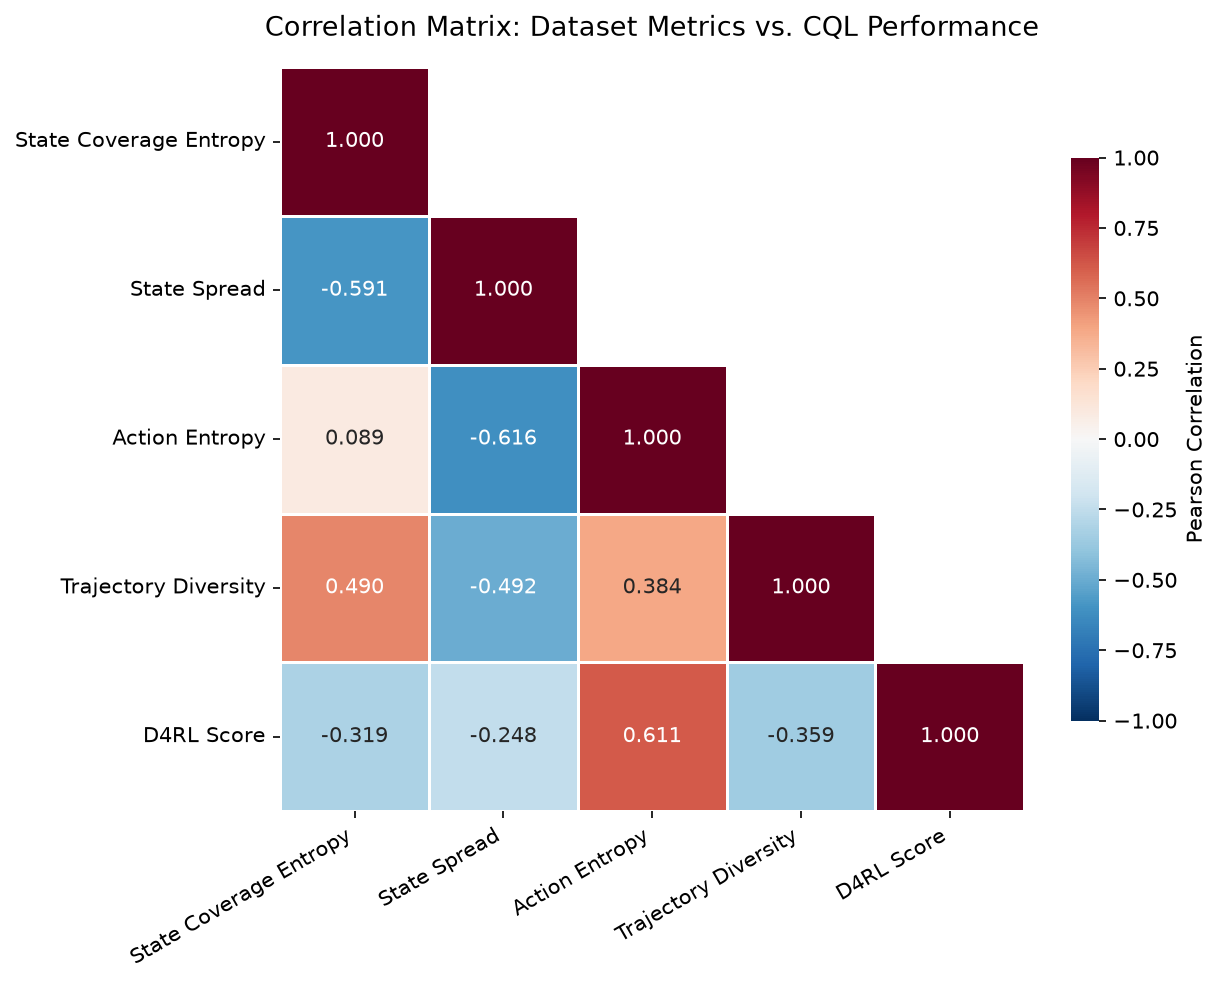
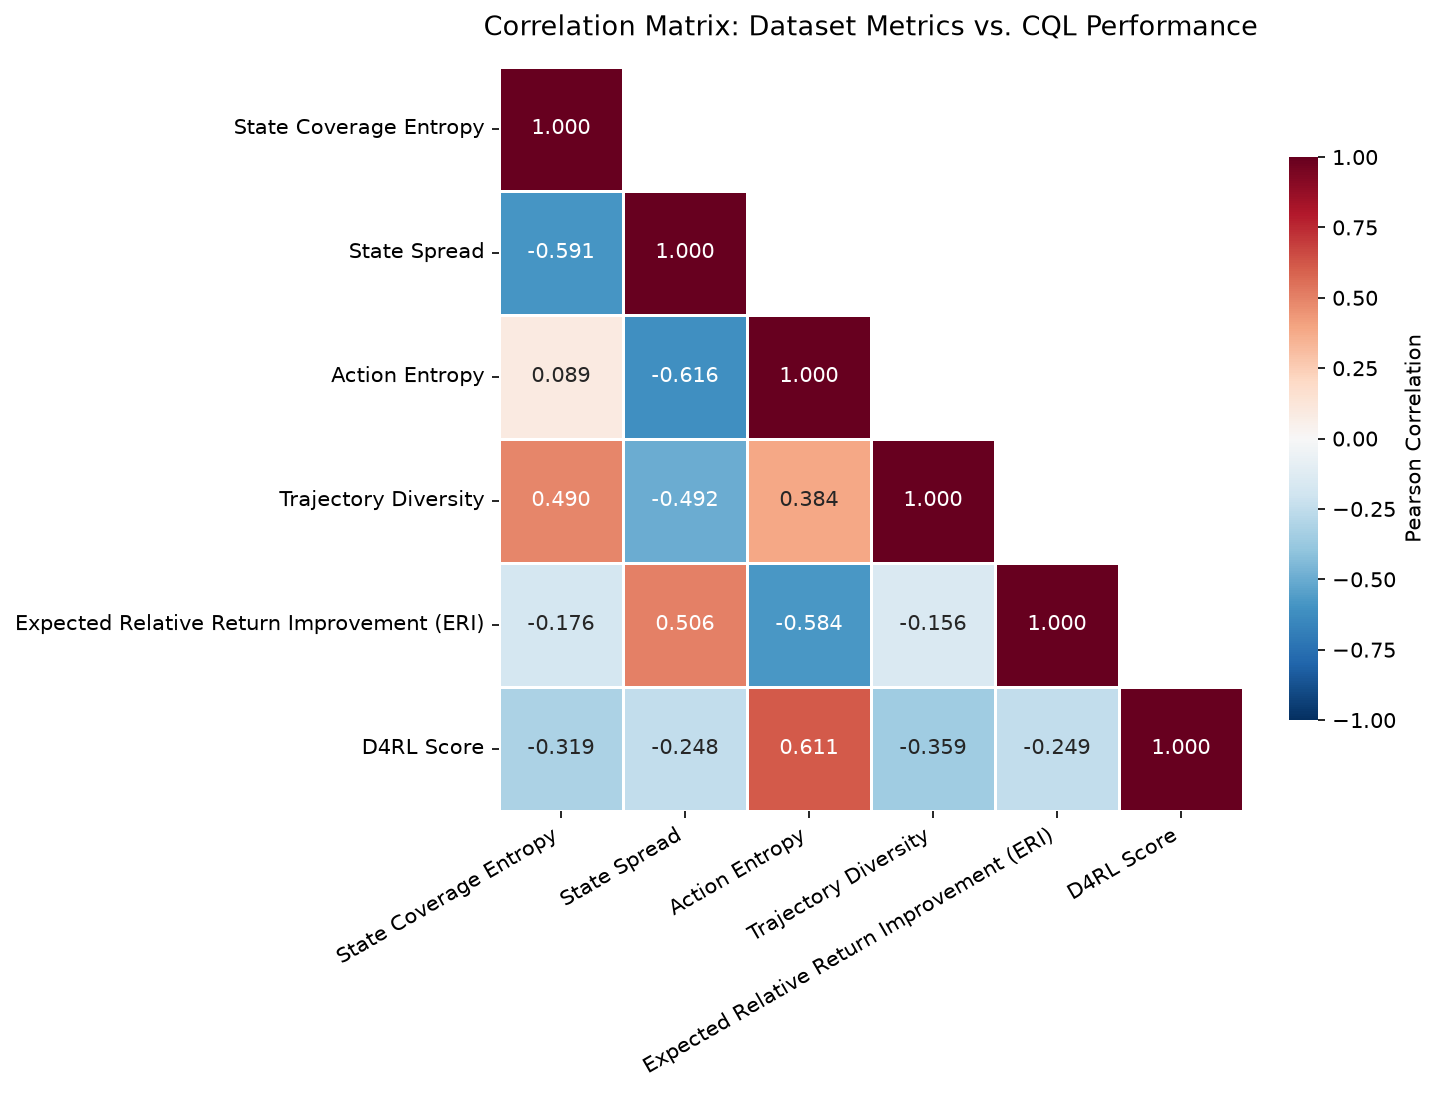
add EAS and ERI to visualization

diff --git a/src/visualization/visualize_results.py b/src/visualization/visualize_results.py
@@ -110,6 +110,8 @@ META_FEATURES = [
     "Action_Entropy",
     "Trajectory_Diversity",
     "Reward_Sparsity",
+    "EAS",
+    "ERI",
 ]
 
 META_FEATURE_LABELS = {
@@ -118,23 +120,24 @@ META_FEATURE_LABELS = {
     "Action_Entropy": "Action Entropy",
     "Trajectory_Diversity": "Trajectory Diversity",
     "Reward_Sparsity": "Reward Sparsity",
+    "EAS": "Mean Expected Action Stochasticity (EAS)",
+    "ERI": "Expected Relative Return Improvement (ERI)",
 }
 
-# Radar-chart metrics (subset that makes sense on a comparable scale)
-# Exclude Reward_Sparsity because it is constant (0.0) for all MuJoCo datasets.
+# Radar-chart metrics (subset that makes sense on a comparable scale).
+# Exclude Reward_Sparsity because it is constant (0.0) for all MuJoCo
+# datasets, and ERI because its bounded [-1, 0] range would be dwarfed on the
+# shared, non-normalized axis that plot_dataset_source_comparison draws
+# RADAR_METRICS on (the two radar-chart functions themselves are unaffected
+# by scale since they min-max normalize each metric independently).
 RADAR_METRICS = [
     "State_Coverage_Entropy",
     "State_Spread",
     "Action_Entropy",
     "Trajectory_Diversity",
+    "EAS",
 ]
 
-RADAR_LABELS = [
-    "State Coverage\nEntropy",
-    "State Spread",
-    "Action Entropy",
-    "Trajectory\nDiversity",
-]
 
 # Absolute-scale dataset-size/return features, kept in a separate bar panel
 # from RADAR_METRICS in the dataset-source comparison plot: their magnitudes
@@ -147,6 +150,14 @@ META_COUNT_FEATURE_LABELS = {
     "Episodes": "Episodes",
     "Avg_Episode_Length": "Avg. Episode Length",
 }
+
+# Bounded-ratio return-quality features, kept in their own bar panel in the
+# dataset-source comparison plot: ERI's small, negative-leaning [-1, 0]
+# range would be unreadable squeezed onto either the entropy-scale
+# (RADAR_METRICS) or the count-scale (META_COUNT_FEATURES) axis. Labels are
+# looked up from META_FEATURE_LABELS (ERI is already a META_FEATURES entry)
+# rather than duplicated here.
+META_RATIO_FEATURES = ["ERI"]
 
 # D4RL reference baselines for normalizing raw scores (0% = random, 100% = expert).
 # These are used to re-normalize raw scores from pipeline results, ensuring
@@ -277,9 +288,11 @@ def _load_all_dataset_profiles(profiles_dir: str = default_paths.DATASET_PROFILE
                 "State_Cluster_Coverage": coverage.get("State Cluster Coverage", np.nan),
                 "Action_Variance": coverage.get("Action Variance", np.nan),
                 "Action_Entropy": coverage.get("Action Entropy", np.nan),
+                "EAS": coverage.get("EAS", np.nan),
                 "Mean_Return": quality.get("Mean Return", np.nan),
                 "Std_Return": quality.get("Std Return", np.nan),
                 "Reward_Sparsity": quality.get("Reward Sparsity", np.nan),
+                "ERI": quality.get("ERI", np.nan),
                 "Trajectory_Diversity": diversity.get("Trajectory Diversity", np.nan),
                 "Transitions": size_info.get("Transitions", np.nan),
                 "Episodes": size_info.get("Episodes", np.nan),
@@ -430,6 +443,16 @@ def _wrap_label(label: str) -> str:
     return label.replace(" ", "\n")
 
 
+def _usable_features(df: pd.DataFrame, features: list) -> list:
+    """Return the subset of `features` that have at least one non-null value
+    in `df`. A feature that's entirely missing for a data source (e.g.
+    EAS/ERI not yet computed for the D4RL profiles, which predate those
+    fields) degrades to "excluded from this plot" instead of, via a blanket
+    dropna(subset=features), wiping out every row just because one column is
+    always NaN."""
+    return [f for f in features if f in df.columns and df[f].notna().any()]
+
+
 def _save_figure(fig, filename: str, output_dir: str, dpi: int = 150):
     """Save a figure to output_dir/filename with consistent settings."""
     os.makedirs(output_dir, exist_ok=True)
@@ -541,15 +564,17 @@ def plot_metrics_vs_performance(
     algorithm_label: str = "CQL",
     output_filename: str = "metrics_vs_performance.png",
 ):
-    """2x2 scatter subplot: each meta-feature vs. D4RL score with trend line."""
-    df = df_meta.dropna(subset=META_FEATURES +
-                        ["Normalized_Target_Score"]).copy()
-    if df.empty:
+    """Grid of scatter subplots, one per meta-feature vs. D4RL score with trend line."""
+    features = _usable_features(df_meta, META_FEATURES)
+    df = df_meta.dropna(subset=features + ["Normalized_Target_Score"]).copy()
+    if df.empty or not features:
         print("  [!] No meta-registry data for metrics-vs-performance plot.")
         return
 
-    features = META_FEATURES[:4]  # Use first 4 for 2x2 grid
-    fig, axes = plt.subplots(2, 2, figsize=(11, 9))
+    n_cols = 2
+    n_rows = int(np.ceil(len(features) / n_cols))
+    fig, axes = plt.subplots(
+        n_rows, n_cols, figsize=(11, 4.5 * n_rows), squeeze=False)
 
     for ax, feat in zip(axes.flat, features):
         x = df[feat]
@@ -567,8 +592,11 @@ def plot_metrics_vs_performance(
                     zorder=3,
                 )
 
-        # Trend line (polynomial degree 1)
-        if len(x) > 2:
+        # Trend line (polynomial degree 1). Skip when x is constant (e.g.
+        # Reward_Sparsity is 0.0 for every MuJoCo dataset) since a
+        # zero-variance x makes the least-squares fit singular and
+        # np.polyfit raises LinAlgError instead of returning a flat line.
+        if len(x) > 2 and x.std() > 0:
             coeffs = np.polyfit(x, y, 1)
             poly = np.poly1d(coeffs)
             x_sorted = np.sort(x)
@@ -578,6 +606,10 @@ def plot_metrics_vs_performance(
         ax.set_xlabel(META_FEATURE_LABELS.get(feat, feat), fontsize=11)
         ax.set_ylabel("D4RL Normalized Score (%)", fontsize=11)
         ax.grid(alpha=0.3)
+
+    # Hide any unused subplot slots when len(features) doesn't fill the grid
+    for empty_ax in axes.flat[len(features):]:
+        empty_ax.axis("off")
 
     # Single legend for the whole figure
     handles, labels = axes[0, 0].get_legend_handles_labels()
@@ -603,9 +635,10 @@ def plot_correlation_heatmap(
     output_filename: str = "correlation_heatmap.png",
 ):
     """Annotated correlation matrix of all numeric meta-features + target."""
-    cols = META_FEATURES + ["Normalized_Target_Score"]
+    features = _usable_features(df_meta, META_FEATURES)
+    cols = features + ["Normalized_Target_Score"]
     df = df_meta[cols].dropna().copy()
-    if df.empty:
+    if df.empty or not features:
         print("  [!] No meta-registry data for correlation heatmap.")
         return
 
@@ -660,13 +693,13 @@ def plot_feature_importance(
     output_filename: str = "feature_importance.png",
 ):
     """Random Forest feature importance as a horizontal bar chart."""
-    df = df_meta.dropna(subset=META_FEATURES +
-                        ["Normalized_Target_Score"]).copy()
-    if df.empty:
+    features = _usable_features(df_meta, META_FEATURES)
+    df = df_meta.dropna(subset=features + ["Normalized_Target_Score"]).copy()
+    if df.empty or not features:
         print("  [!] No meta-registry data for feature importance.")
         return
 
-    X = df[META_FEATURES]
+    X = df[features]
     y = df["Normalized_Target_Score"]
 
     model = RandomForestRegressor(n_estimators=50, random_state=42)
@@ -676,10 +709,10 @@ def plot_feature_importance(
     indices = np.argsort(importances)[::-1]
 
     fig, ax = plt.subplots(figsize=(9, 5))
-    colors = plt.cm.Blues(np.linspace(0.4, 0.9, len(META_FEATURES)))[::-1]
+    colors = plt.cm.Blues(np.linspace(0.4, 0.9, len(features)))[::-1]
 
     bars = ax.barh(
-        range(len(META_FEATURES)),
+        range(len(features)),
         importances[indices],
         color=colors,
         align="center",
@@ -687,9 +720,9 @@ def plot_feature_importance(
         height=0.7,
     )
 
-    ax.set_yticks(range(len(META_FEATURES)))
+    ax.set_yticks(range(len(features)))
     ax.set_yticklabels(
-        [META_FEATURE_LABELS.get(META_FEATURES[i], META_FEATURES[i])
+        [META_FEATURE_LABELS.get(features[i], features[i])
          for i in indices],
         fontsize=11,
     )
@@ -721,13 +754,13 @@ def plot_predicted_vs_actual(
     """Scatter plot: predicted D4RL score vs. actual, using a GBR trained on
     the meta-registry with leave-one-dataset-out cross-validation."""
 
-    df = df_meta.dropna(subset=META_FEATURES +
-                        ["Normalized_Target_Score"]).copy()
-    if len(df) < 3:
+    features = _usable_features(df_meta, META_FEATURES)
+    df = df_meta.dropna(subset=features + ["Normalized_Target_Score"]).copy()
+    if len(df) < 3 or not features:
         print("  [!] Too few data points for predicted-vs-actual plot.")
         return
 
-    X = df[META_FEATURES].values
+    X = df[features].values
     y = df["Normalized_Target_Score"].values
     dataset_ids = df["Dataset_ID"].values
 
@@ -892,15 +925,18 @@ def plot_seed_consistency(
 
 def plot_radar_comparison(df_profiles: pd.DataFrame, output_dir: str):
     """Radar chart comparing Expert vs. Simple dataset profiles per environment."""
-    df = df_profiles.dropna(subset=RADAR_METRICS).copy()
-    if df.empty:
+    metrics = _usable_features(df_profiles, RADAR_METRICS)
+    df = df_profiles.dropna(subset=metrics).copy()
+    if df.empty or not metrics:
         print("  [!] No profile data for radar comparison.")
         return
 
     # For each environment, get expert and simple tiers
-    n_metrics = len(RADAR_METRICS)
+    n_metrics = len(metrics)
     angles = np.linspace(0, 2 * np.pi, n_metrics, endpoint=False).tolist()
     angles += angles[:1]  # Close the loop
+    radar_labels = [_wrap_label(META_FEATURE_LABELS.get(m, m))
+                    for m in metrics]
 
     for env in ENV_ORDER:
         env_df = df[df["env_family"] == env]
@@ -913,10 +949,9 @@ def plot_radar_comparison(df_profiles: pd.DataFrame, output_dir: str):
         fig, ax = plt.subplots(figsize=(6, 6), subplot_kw={"polar": True})
 
         for label, row in [("Expert", expert.iloc[0]), ("Simple", simple.iloc[0])]:
-            # values = [row[m] for m in RADAR_METRICS]
             # Normalise to [0, 1] using min-max across all profiles for this metric
             values_norm = []
-            for m in RADAR_METRICS:
+            for m in metrics:
                 vmin = df[m].min()
                 vmax = df[m].max()
                 if vmax - vmin > 1e-10:
@@ -931,7 +966,7 @@ def plot_radar_comparison(df_profiles: pd.DataFrame, output_dir: str):
                     linewidth=2, label=label, color=color)
 
         ax.set_xticks(angles[:-1])
-        ax.set_xticklabels(RADAR_LABELS, fontsize=9)
+        ax.set_xticklabels(radar_labels, fontsize=9)
         ax.set_ylim(0, 1.1)
         ax.set_yticks([0.25, 0.5, 0.75, 1.0])
         ax.set_yticklabels(["0.25", "0.5", "0.75", "1.0"], fontsize=7)
@@ -950,17 +985,18 @@ def plot_radar_comparison(df_profiles: pd.DataFrame, output_dir: str):
 def plot_all_datasets_radar(df_profiles: pd.DataFrame, output_dir: str):
     """One radar chart per environment, with each tier (simple/medium/expert)
     shown as a separate coloured polygon."""
-    df = df_profiles.dropna(subset=RADAR_METRICS).copy()
+    metrics = _usable_features(df_profiles, RADAR_METRICS)
+    df = df_profiles.dropna(subset=metrics).copy()
     df = df[df["env_family"].notna() & df["tier"].notna()]
-    df = df[df["env_family"].apply(lambda x: x is not None)]
-    df = df[df["tier"].apply(lambda x: x is not None)]
-    if df.empty:
+    if df.empty or not metrics:
         print("  [!] No profile data for per-environment radar charts.")
         return
 
-    n_metrics = len(RADAR_METRICS)
+    n_metrics = len(metrics)
     angles = np.linspace(0, 2 * np.pi, n_metrics, endpoint=False).tolist()
     angles += angles[:1]
+    radar_labels = [_wrap_label(META_FEATURE_LABELS.get(m, m))
+                    for m in metrics]
 
     # Tier-specific colours (sequential palette: simple→medium→expert)
     tier_colors = {
@@ -989,10 +1025,9 @@ def plot_all_datasets_radar(df_profiles: pd.DataFrame, output_dir: str):
                 continue
 
             for _, row in tier_rows.iterrows():
-                # values = [row[m] for m in RADAR_METRICS]
                 # Normalise using global min-max (across ALL datasets)
                 values_norm = []
-                for m in RADAR_METRICS:
+                for m in metrics:
                     vmin = df[m].min()
                     vmax = df[m].max()
                     if vmax - vmin > 1e-10:
@@ -1009,7 +1044,7 @@ def plot_all_datasets_radar(df_profiles: pd.DataFrame, output_dir: str):
                         label=label, color=color)
 
         ax.set_xticks(angles[:-1])
-        ax.set_xticklabels(RADAR_LABELS, fontsize=10)
+        ax.set_xticklabels(radar_labels, fontsize=10)
         ax.set_ylim(0, 1.1)
         ax.set_yticks([0.25, 0.5, 0.75, 1.0])
         ax.set_yticklabels(["0.25", "0.5", "0.75", "1.0"], fontsize=7)
@@ -1123,25 +1158,33 @@ def _draw_grouped_source_bars(
         errors = None
         if error_feature is not None and error_col is not None:
             errors = [row.get(error_col, np.nan) if f ==
-                     error_feature else 0 for f in features]
+                      error_feature else 0 for f in features]
         offset = (i - (n_sources - 1) / 2) * width
         ax.bar(x + offset, values, width, yerr=errors, capsize=3,
-              label=source, color=source_colors[source], error_kw={"linewidth": 1})
+               label=source, color=source_colors[source], error_kw={"linewidth": 1})
 
 
 def plot_dataset_source_comparison(df_profiles: pd.DataFrame, output_dir: str):
     """For each environment, draw one figure with one row per
-    difficulty-rank tier group (TIER_GROUP_ORDER). Each row has two grouped
-    bar-chart panels, one bar per dataset source per feature (e.g. d4rl vs
-    minari): the left panel covers the comparable-scale profile-shape
-    features (RADAR_METRICS), the right panel covers the absolute-scale
-    dataset size/return features (META_COUNT_FEATURES, with Mean_Return's
-    error bar drawn from Std_Return) — kept apart because their magnitudes
-    would otherwise dwarf the 0-4-range profile-shape features on a shared
-    axis. Every row gets its own x-tick labels, word-wrapped at each space
-    word-wrapped at each space (not rotated) so multi-word feature names
-    stay compact and legible as plain horizontal text."""
-    df = df_profiles.dropna(subset=RADAR_METRICS).copy()
+    difficulty-rank tier group (TIER_GROUP_ORDER). Each row has three
+    grouped bar-chart panels, one bar per dataset source per feature (e.g.
+    d4rl vs minari): the profile-shape features (RADAR_METRICS), the
+    absolute-scale dataset size/return features (META_COUNT_FEATURES, with
+    Mean_Return's error bar drawn from Std_Return), and the bounded-ratio
+    return-quality features (META_RATIO_FEATURES) — kept apart because their
+    wildly different magnitudes/ranges would otherwise dwarf each other on a
+    shared axis. Every row gets its own x-tick labels, word-wrapped at each
+    space (not rotated) so multi-word feature names stay compact and
+    legible as plain horizontal text.
+
+    Unlike the other profile plots, this one spans every dataset source at
+    once, so a feature missing entirely for one source (e.g. EAS/ERI not yet
+    computed for D4RL) shouldn't get excluded outright — that would hide it
+    for every source, including ones that do have it. Rows are dropped only
+    if ALL of RADAR_METRICS are missing; a source simply gets no bar drawn
+    for whichever individual feature it lacks (see _draw_grouped_source_bars,
+    which already tolerates a NaN value for one feature)."""
+    df = df_profiles.dropna(subset=RADAR_METRICS, how="all").copy()
     if df.empty:
         print("  [!] No profile data for dataset-source comparison.")
         return
@@ -1155,11 +1198,14 @@ def plot_dataset_source_comparison(df_profiles: pd.DataFrame, output_dir: str):
                     for f in RADAR_METRICS]
     count_labels = [_wrap_label(META_COUNT_FEATURE_LABELS.get(f, f))
                     for f in META_COUNT_FEATURES]
+    ratio_labels = [_wrap_label(META_FEATURE_LABELS.get(f, f))
+                    for f in META_RATIO_FEATURES]
 
     n_sources = len(sources)
     width = 0.8 / n_sources
     x_shape = np.arange(len(RADAR_METRICS))
     x_count = np.arange(len(META_COUNT_FEATURES))
+    x_ratio = np.arange(len(META_RATIO_FEATURES))
 
     for env in ENV_ORDER:
         env_df = df[df["env_family"] == env]
@@ -1171,15 +1217,16 @@ def plot_dataset_source_comparison(df_profiles: pd.DataFrame, output_dir: str):
             continue
 
         fig, axes = plt.subplots(
-            len(groups), 2,
-            figsize=(max(11.0, 1.6 * len(RADAR_METRICS) +
-                     1.6 * len(META_COUNT_FEATURES)), 3.0 * len(groups)),
+            len(groups), 3,
+            figsize=(max(13.0, 1.6 * len(RADAR_METRICS) + 1.6 * len(META_COUNT_FEATURES)
+                     + 1.6 * len(META_RATIO_FEATURES)), 3.0 * len(groups)),
             squeeze=False,
         )
 
         for row_idx, group in enumerate(groups):
             group_df = env_df[env_df["tier_group"] == group]
-            ax_shape, ax_count = axes[row_idx, 0], axes[row_idx, 1]
+            ax_shape, ax_count, ax_ratio = axes[row_idx,
+                                                 0], axes[row_idx, 1], axes[row_idx, 2]
 
             _draw_grouped_source_bars(
                 ax_shape, group_df, sources, source_colors,
@@ -1188,13 +1235,17 @@ def plot_dataset_source_comparison(df_profiles: pd.DataFrame, output_dir: str):
                 ax_count, group_df, sources, source_colors,
                 META_COUNT_FEATURES, x_count, width, n_sources,
                 error_feature="Mean_Return", error_col="Std_Return")
+            _draw_grouped_source_bars(
+                ax_ratio, group_df, sources, source_colors,
+                META_RATIO_FEATURES, x_ratio, width, n_sources)
 
             for ax, x, labels in (
                 (ax_shape, x_shape, shape_labels),
                 (ax_count, x_count, count_labels),
+                (ax_ratio, x_ratio, ratio_labels),
             ):
-                ax.set_title(TIER_GROUP_LABELS.get(group, group),
-                            fontsize=11, loc="left")
+                ax.set_title(TIER_GROUP_LABELS.get(
+                    group, group), fontsize=11, loc="left")
                 ax.grid(axis="y", alpha=0.3)
                 ax.set_xticks(x)
                 ax.set_xticklabels(
